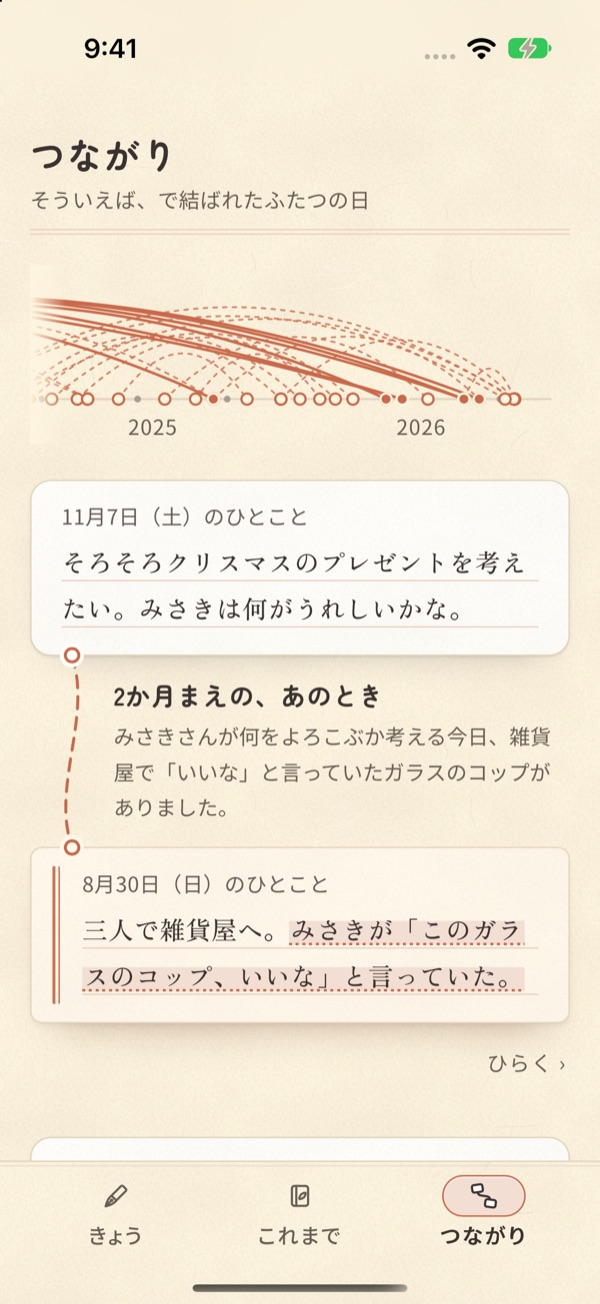
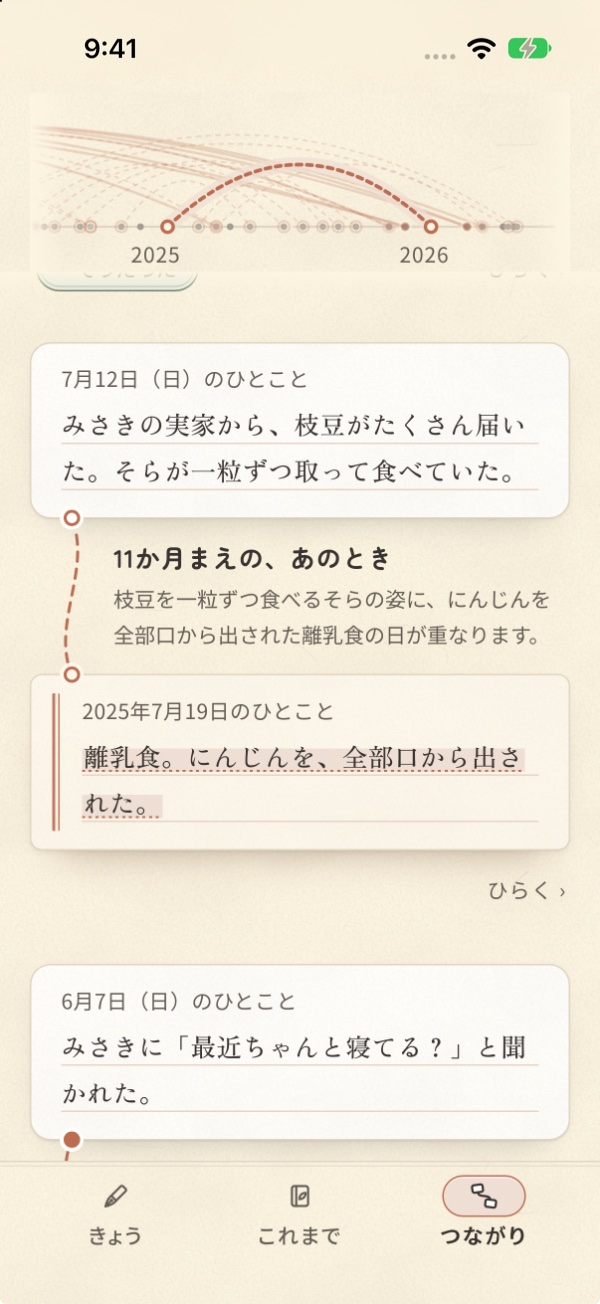
README のつながりの写しを差し替える（実機で一覧を縦に送り、いま読んでいる組の糸だけが帯で濃く浮かぶところ。時計の帯はほかの写しとそろえた）

diff --git a/README.md b/README.md
@@ -10,13 +10,13 @@ Built with Claude: Japan 2026 ハッカソンの個人開発（開発期間 2026
 
 | 書く | そういえば。 | つながり |
 |---|---|---|
-| <img src="docs/images/today.jpg" width="220" alt="書く画面。1年まえの、きょうのころ（そらがつかまり立ちした）と、このごろの押し葉"> | <img src="docs/images/recall.jpg" width="220" alt="保存すると浮かんだ「そういえば。」の札。2024年12月24日の「みさきに紺色の毛糸の手袋をあげた。前になくしたと言っていたのと同じ色。」の引用"> | <img src="docs/images/connections.jpg" width="220" alt="つながり。上の糸の帯に 50 の組、下に干し柿のお礼と 2 年 1 か月まえの新米の日を結んだ組"> |
+| <img src="docs/images/today.jpg" width="220" alt="書く画面。1年まえの、きょうのころ（そらがつかまり立ちした）と、このごろの押し葉"> | <img src="docs/images/recall.jpg" width="220" alt="保存すると浮かんだ「そういえば。」の札。2024年12月24日の「みさきに紺色の毛糸の手袋をあげた。前になくしたと言っていたのと同じ色。」の引用"> | <img src="docs/images/connections.jpg" width="220" alt="つながり。一覧を縦に送っても糸の帯が上に残り、いま読んでいる枝豆の日と 11 か月まえの離乳食の日を結ぶ糸だけが濃く浮かぶ"> |
 
 | 年月でたどる | ことばの地図 | ことばを押すと |
 |---|---|---|
 | <img src="docs/images/past.jpg" width="220" alt="これまで。2023年11月へたどり、年月の札が左上に浮かぶ"> | <img src="docs/images/words.jpg" width="220" alt="ことばの地図。年を縦に並べ、年ごとの言葉と、年をまたぐ言葉を細い糸で結ぶ"> | <img src="docs/images/words-sheet.jpg" width="220" alt="「展望台」を押すと、2020年・2021年・2023年の一文が原文のまま並ぶ"> |
 
-写っているのは撮影用の架空のデータ（demo/fixtures/story.sql）。iPhone 17 の Simulator で撮った。
+写っているのは撮影用の架空のデータ（demo/fixtures/story.sql）。iPhone 17 の Simulator で撮った（つながりだけは iPhone 16 Pro の実機で撮り、上の時計の帯をほかの写しとそろえた）。
 
 > **In English** — *Souieba* ("Oh, that reminds me.") is an iPhone app for keeping one line and one photo about your day.
 > When you write something new, Claude reads your own past entries and brings back at most three that are truly related, each with the reason and a verbatim quote of what you wrote back then.
